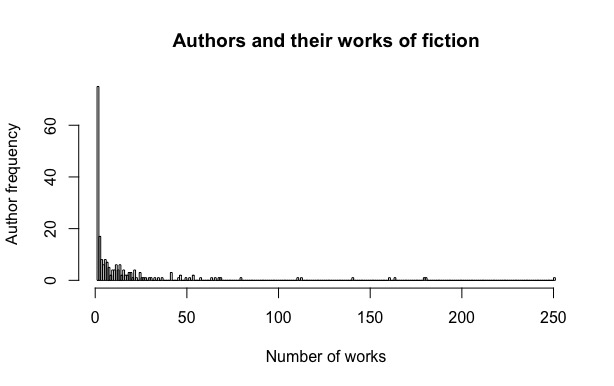
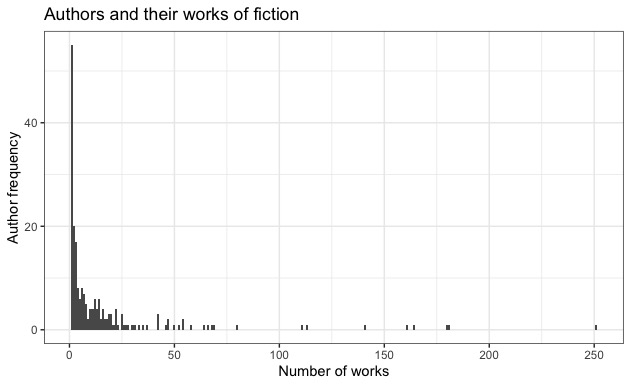
update

diff --git a/README.md b/README.md
@@ -2,7 +2,7 @@
  
 ## Data Overview
 
-The presented data set *shortstorydata_sample.csv* is a sample (100 observations) of data scraped from the web site ["The Short Storie Library"](https://americanliterature.com/short-story-library). On the date of ethical web scraping (October 2019) there were 4346 stories by over 226 authors with a word count of between 8 and 51596 (size of a novella). Although the definition of a short story length is vague, in this analysis a short story is considered to be between 1000 and 10000 words long, resulting in a data set of 3573 stories and 209 authors (82 % of the total data). The average word count in this data subset is approx. 4000.
+The presented data set *shortstorydata_sample.csv* is a sample (100 observations) of data scraped from the web site ["The Short Storie Library"](https://americanliterature.com/short-story-library). On the date of ethical web scraping (October 2019) there were 4346 stories by over 226 authors with a word count of between 8 and 51596 (size of a novella). Although the definition of a short story length is vague, in this analysis a short story is considered to be between 1000 and 10000 words long, resulting in a data set of 3573 stories and 209 authors (82 % of the total data). The median word count in this data subset is approx. 3500.
 
 ![distribution](distwordcount.jpeg)
 
@@ -10,7 +10,7 @@ The presented data set *shortstorydata_sample.csv* is a sample (100 observations
 
 ### Authors and their stories 
 
-When looking at the distribution of authors and their number of works, we find 17 authors with 50 or more written stories (table 1) and an overall distribution represented in the histogram (figure 1).
+When looking at the distribution of authors and their number of works, we find 17 authors with 50 or more written stories (table 1) and an overall distribution represented in the histogram (figure 2).
 
 Table 1: Authors with 50 or more works in data set.
 
@@ -35,6 +35,40 @@ Table 1: Authors with 50 or more works in data set.
 |Charles Dickens|	52|
 |H. P. Lovecraft	|50|
 
-According to this data, most authors are represented with only one story.
+According to this data, most authors are represented with only one to fifty stories.
 
 ![distribution](distauthorworks.jpeg)
+
+### Parameter analysis
+
+When we look at the relationship between word count and the number of unique number of words used by an author, then we find a positive correlation (see figure 3) with a downward trend. That means that the number of unique words used by any author increases slower than the total number of words used by that author.
+
+![distribution](relwcuw.jpeg)
+
+Another relationship of interest: reading ease and sentence length (word count per sentence). The following formula was used to calculate the Flesch Reading Ease Score:
+
+206.835 - 1.015 * ( words / sentences ) - 84.6 * ( syllable count / words )
+
+Theoretically, the correlation between these two parameters is negative; the longer the average sentence written the more difficult the text is to read (see figure 4).
+
+![distribution](reresl.jpeg)
+
+A selection of authors, each having written 10 or more stories, and their corresponding reading ease score is given in table 2.
+
+Table 2: A selection of authors and reading ease (re)
+
+|author|min re|max re|mean re|re sd|
+|----|----|----|----|----|
+|Katherine Mansfield|	81.57	|93.61|	87.04|	3.21|
+|	Philip K. Dick	|76.05|	91.91|	86.92|	4.24|
+|	D. H. Lawrence|	81.88	|93.19|	86.73|	3.25|
+|	Ellis Parker Butler	|66.79|	92.00|	84.22|	7.55|
+|	W. W. Jacobs	|74.40|	93.24|	84.14|	4.17|
+|...||||
+|	William Butler Yeats|	38.67|	76.69|	63.35|	11.50|
+|	H. P. Lovecraft	|41.12	|84.55|	60.81|	7.58|
+|	Edgar Allan Poe|	42.69|	84.13|	60.35|	9.28|
+|	Charlotte M. Yonge|	48.61|	76.80|	58.39|	5.96|
+|	Washington Irving|	37.44|	70.41|	55.87|	8.84|
+
+## Syuzhet Sentiment Analysis
